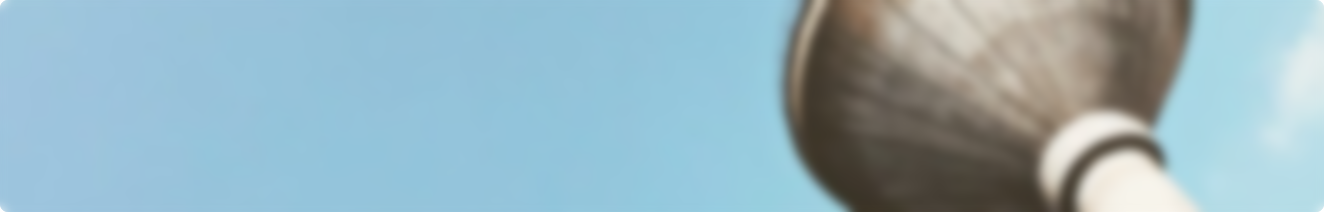
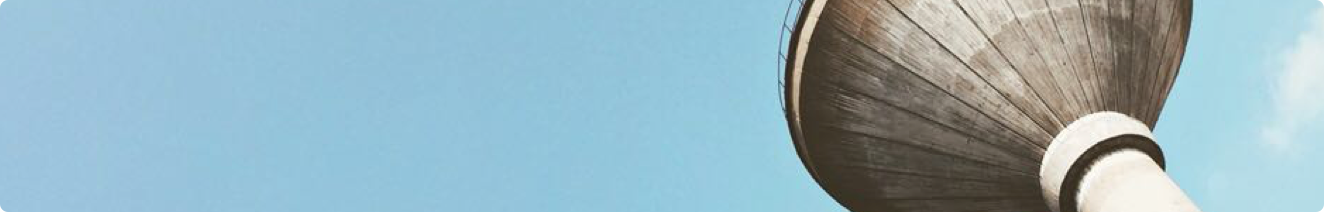
Logo及细节
添加新Logo，调整间距、字号及Banner。

diff --git a/css/style.css b/css/style.css
@@ -15,31 +15,39 @@
 	clear: both
 }
 a{
-	text-decoration: none;color:#36B2C5;}
+	text-decoration: none;color:#666;}
+a:hover{
+	color:#1E6EE8;
+}
+a.active{
+	color:#1E6EE8;
+	font-weight: bold;
+}
+
 /**全局CSS END**/
 
 
 /**HEADER START**/
 .header{
-	width: 100%;height: 78px;border-bottom: 1px #eee solid;clear: both
+	width: 100%;height: 58px;border-bottom: 1px #eee solid;clear: both
 }
 .header-in{
-	width: 960px;height: 78px;margin: 0 auto;
+	width: 960px;height: 58px;margin: 0 auto;
 }
 .header-in ul{
-	margin-left: 85px
+	margin-left: 96px
 }
 .header-in ul li{
-	font-size: 20px;margin-right: 60px;line-height: 75px;display: inline;
+	font-size: 16px;margin-right: 60px;line-height: 58px;display: inline;
 }
 .search-form{
-	margin-left: 25px
+	margin-left: 92px
 }
 .input-style{
-	width: 218px;height: 42px;margin-top: 15px;border-radius: 7px;border: 1px solid #ddd
+	width: 176px;height: 34px;margin-top: 12px;border-radius: 4px;border: 1px solid #ddd
 }
 .button-style{
-	width: 70px;height: 42px;border: 1px solid #36BDC7;border-radius: 7px;background-color:  #36BDC7;color: #fff;font-size: 18px;
+	width: 72px;height: 36px;border: 0;border-radius: 4px;line-height:34px;background-color:  #1E6EE8;color: #fff;font-size: 14px;
 }
 /**HEADER END**/
 .main{
@@ -49,32 +57,32 @@ a{
 	width: 696px;height: auto;margin-right: 10px;
 }
 p.latest{
-	line-height: 44px;font-size: 20px;text-indent: 2em;padding-top: 10px
+	line-height: 78px;font-size: 16px;
 }
 .left-frame ul li{
-	float: left;margin-right: 30px;margin-top: 24px
+	float: left;margin-right: 30px;
 }
 .left-frame ul li img{
-	border-radius: 6px;border: 1px solid #eee;
+	box-shadow: 0 0 4px 0 rgba(0,0,0,0.4);
 }
 .left-frame ul li p {
-	text-align: center;color: #404040;font-size: 20px
+	text-align: center;color: #404040;font-size: 16px;line-height: 40px;
 }
 .left-frame ul li p span{
 	padding-left: 20px;color: #36B2C5
 }
 /**recommend end**/
 .middle-img{
-	width: 662px;height: 106px;margin-top: 24px;background-image: url(../images/banner.png); background-position:76% 33%;;border: 1px solid #eee;border-radius: 5px;
+	width: 662px;height: 106px;margin-top: 12px;margin-bottom: 28px;background-image: url(../images/banner.png); background-size:100%;border-radius: 4px;
 }
 .select-movie{
-	font-size: 20px;color: #fff;line-height: 110px;padding-left: 50px
+	font-size: 18px;color: #fff;line-height: 110px;padding-left: 40px
 }
 .bianji-selected{
-	width: 159px;height: 50px;border: 2px solid rgba(255,255,255,0.6);border-radius: 5px;color: #fff;font-size: 18px;text-align: center;line-height: 50px;margin-top: 30px;margin-left:140px
+	width: 154px;height: 50px;border: 1px solid rgba(255,255,255,0.8);border-radius: 5px;color: #fff;font-size: 16px;text-align: center;line-height: 50px;margin-top: 30px;margin-left:180px;
 }
 p.down-p{
-	line-height: 78px
+	line-height: 78px;
 }
 .right-continer{
 	width: 252px;height: auto;border: 1px solid #eee;border-radius: 7px
@@ -86,7 +94,7 @@ p.down-p{
 	margin-top: 20px;width: 232px;height: 150px
 }
 .right-continer ul li img{
-	border-radius: 6px;border: 1px solid #eee;
+	border-radius: 2px;
 }
 p.num{
 	padding-right: 6px
@@ -95,13 +103,13 @@ p.num{
 	width: 80px;height: 150px;padding-left: 10px
 }
 .fanhao{
-	color:#000;padding-top: 40px
+	color:#000;
 }
 .size{
 	color:#36B2C5;font-size: 15px;line-height: 40px
 }
 p.down{
-	color: #ddd;font-size: 9px;
+	color: #666;font-size: 10px;
 }
 p.more-movies{
 	text-align: center;color: #36B2C5;padding-bottom: 30px

diff --git a/gitav.html b/gitav.html
@@ -12,10 +12,10 @@
 <body>
 <div class="header clear">
 	<div class="header-in">
-		<img src="images/logo.png" width="136" height="78" class="float-left">
+		<img src="images/logo.png" width="135px" height="58px" class="float-left">
 		<div class="float-left">
 			<ul>
-				<li><a href="1">首页</a></li>
+				<li><a href="1" class="active">首页</a></li>
 				<li><a href="2">分类</a></li>
 				<li><a href="3">排行</a></li>
 				<li><a href="4">求片</a></li>
@@ -58,6 +58,29 @@
 		<div class="middle-img clear">
 			<p class="select-movie float-left">不想浪费时间选电影？</p>
 			<div class="bianji-selected float-left">查看编辑精选</div>
+		</div>
+		<div class="recommend clear">
+			
+			<ul>
+				<a href="#"><li><img src="images/cover.jpg" width="200" height="300">
+					<p>TMA-048<span>8.4</span></p></li></a>
+				<a href="#"><li><img src="images/cover.jpg" width="200" height="300">
+					<p>TMA-048<span>8.4</span></p></li></a>
+				<a href="#"><li><img src="images/cover.jpg" width="200" height="300">
+					<p>TMA-048<span>8.4</span></p></li></a>
+				<a href="#"><li><img src="images/cover.jpg" width="200" height="300">
+					<p>TMA-048<span>8.4</span></p></li></a>
+				<a href="#"><li><img src="images/cover.jpg" width="200" height="300">
+					<p>TMA-048<span>8.4</span></p></li></a>
+				<a href="#"><li><img src="images/cover.jpg" width="200" height="300">
+					<p>TMA-048<span>8.4</span></p></li></a>
+				<a href="#"><li><img src="images/cover.jpg" width="200" height="300">
+					<p>TMA-048<span>8.4</span></p></li></a>
+				<a href="#"><li><img src="images/cover.jpg" width="200" height="300">
+					<p>TMA-048<span>8.4</span></p></li></a>
+				<a href="#"><li><img src="images/cover.jpg" width="200" height="300">
+					<p>TMA-048<span>8.4</span></p></li></a>
+			</ul>
 		</div>
 	</div>
 	<div class="right-frame float-left">
